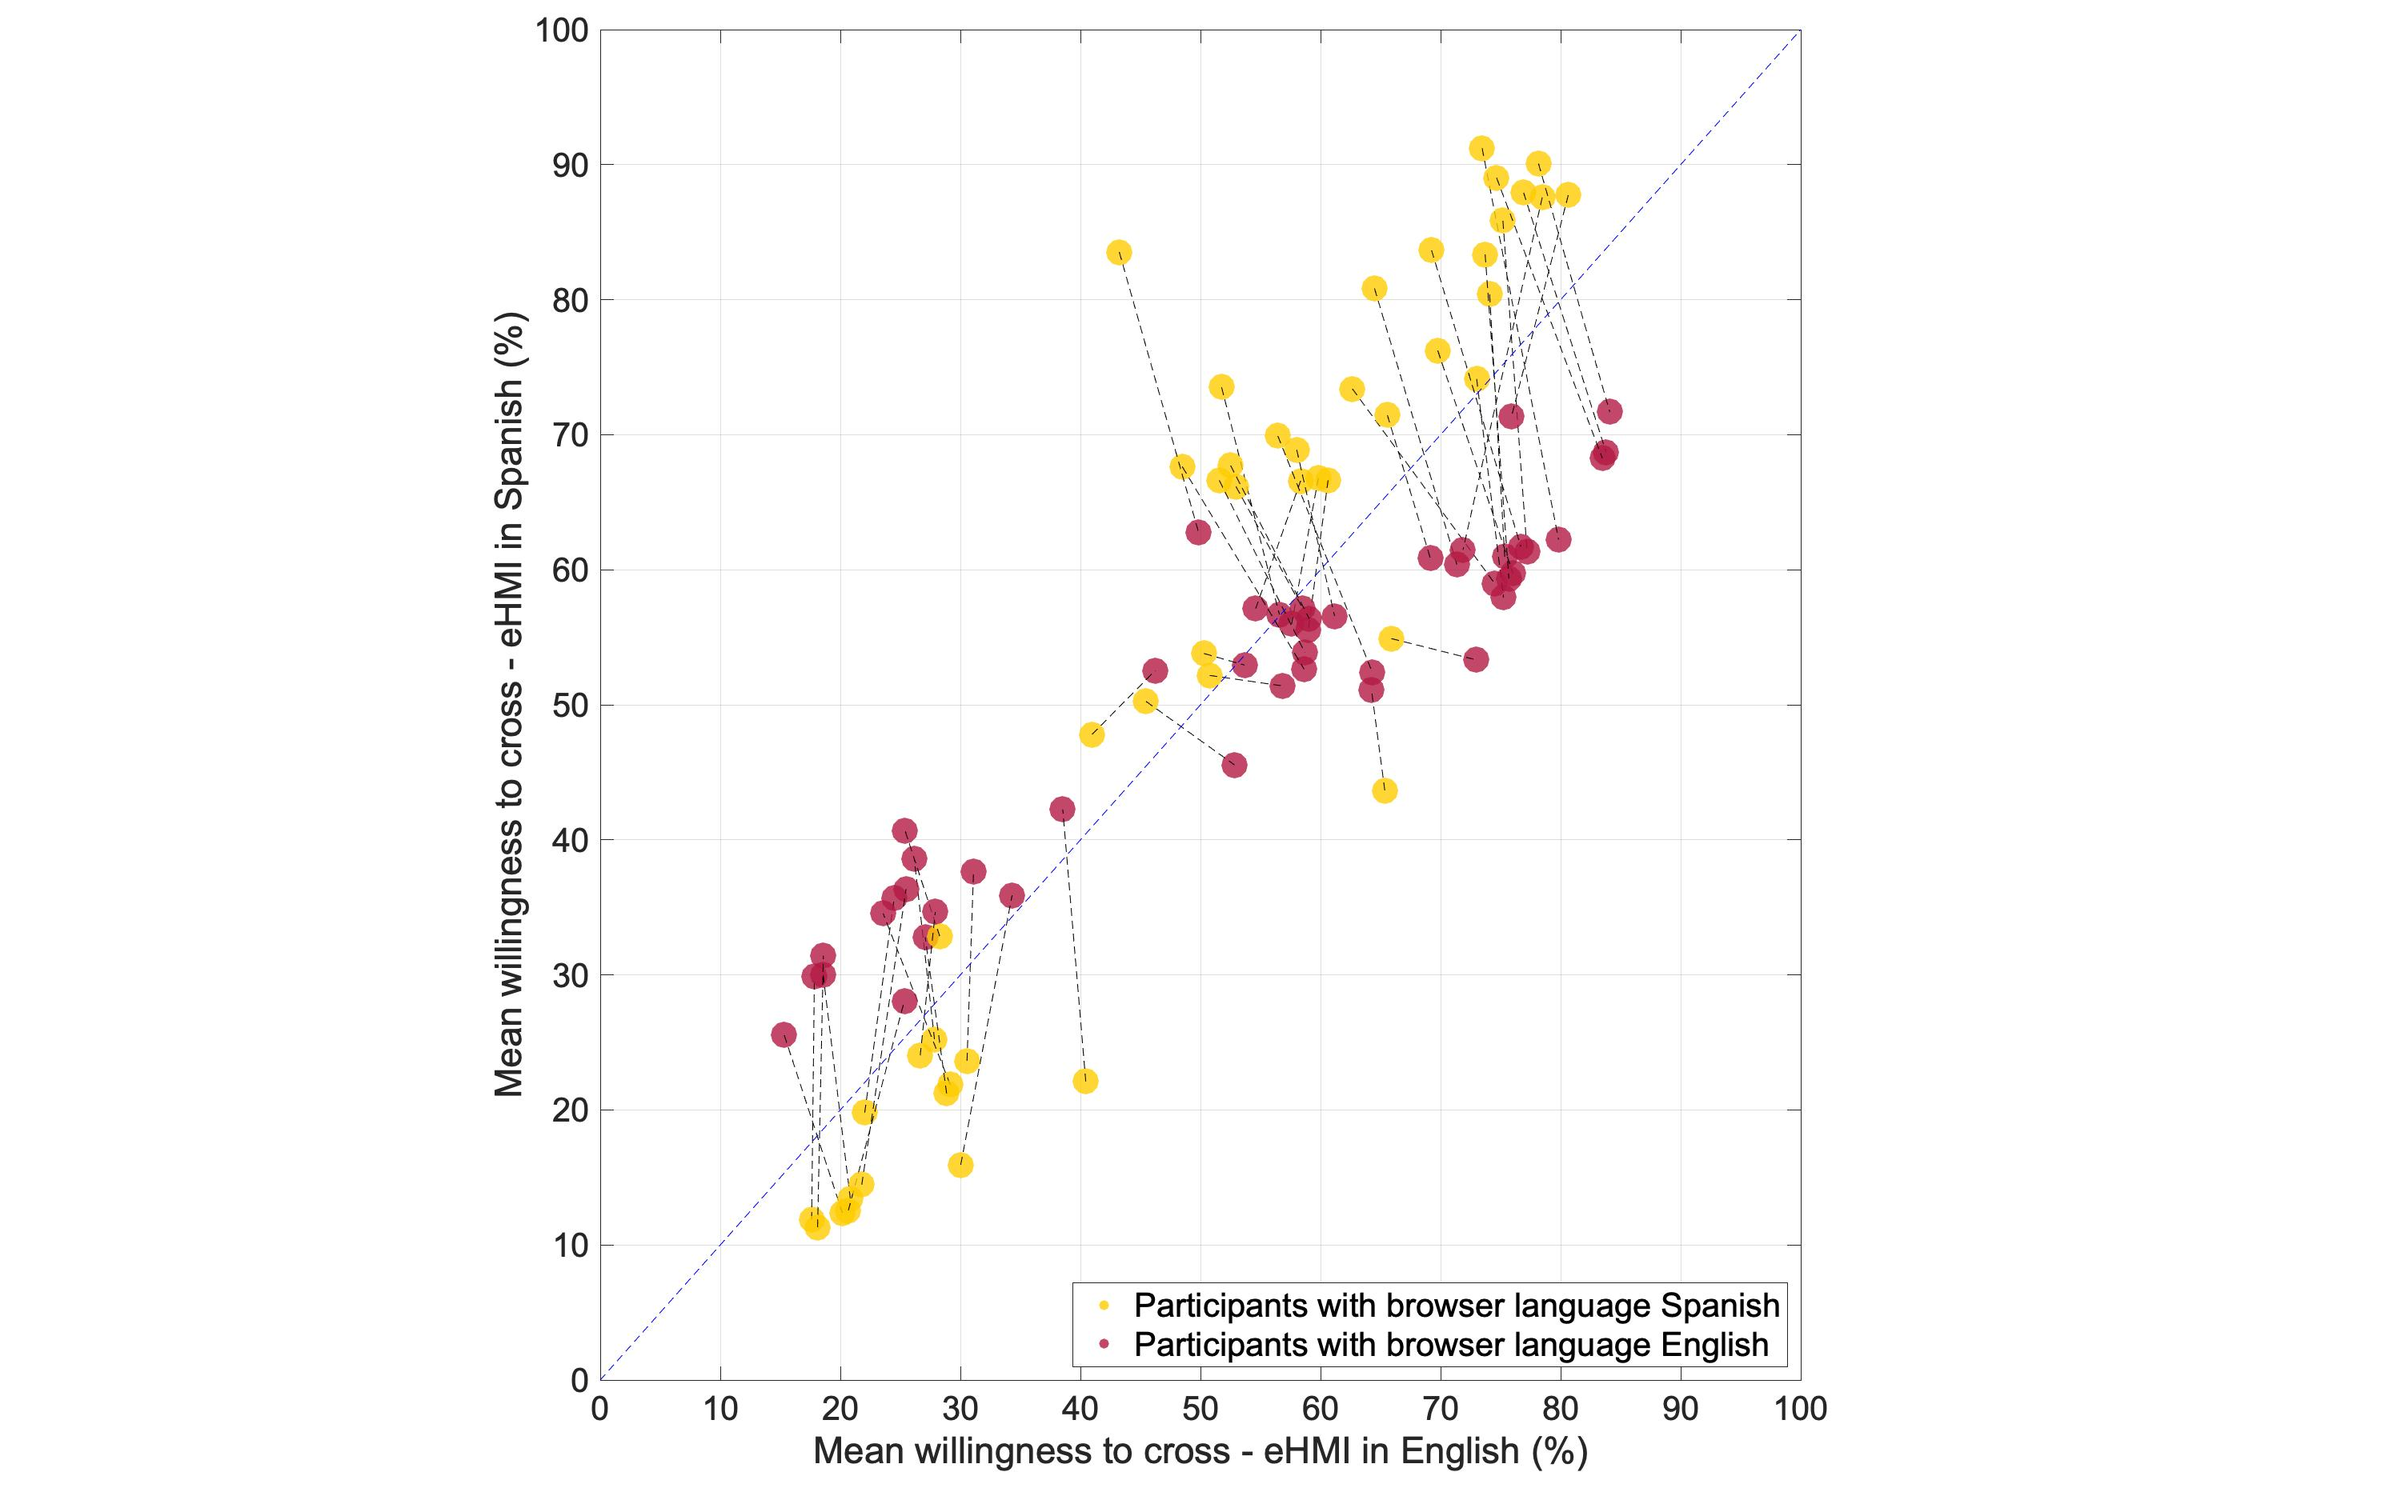
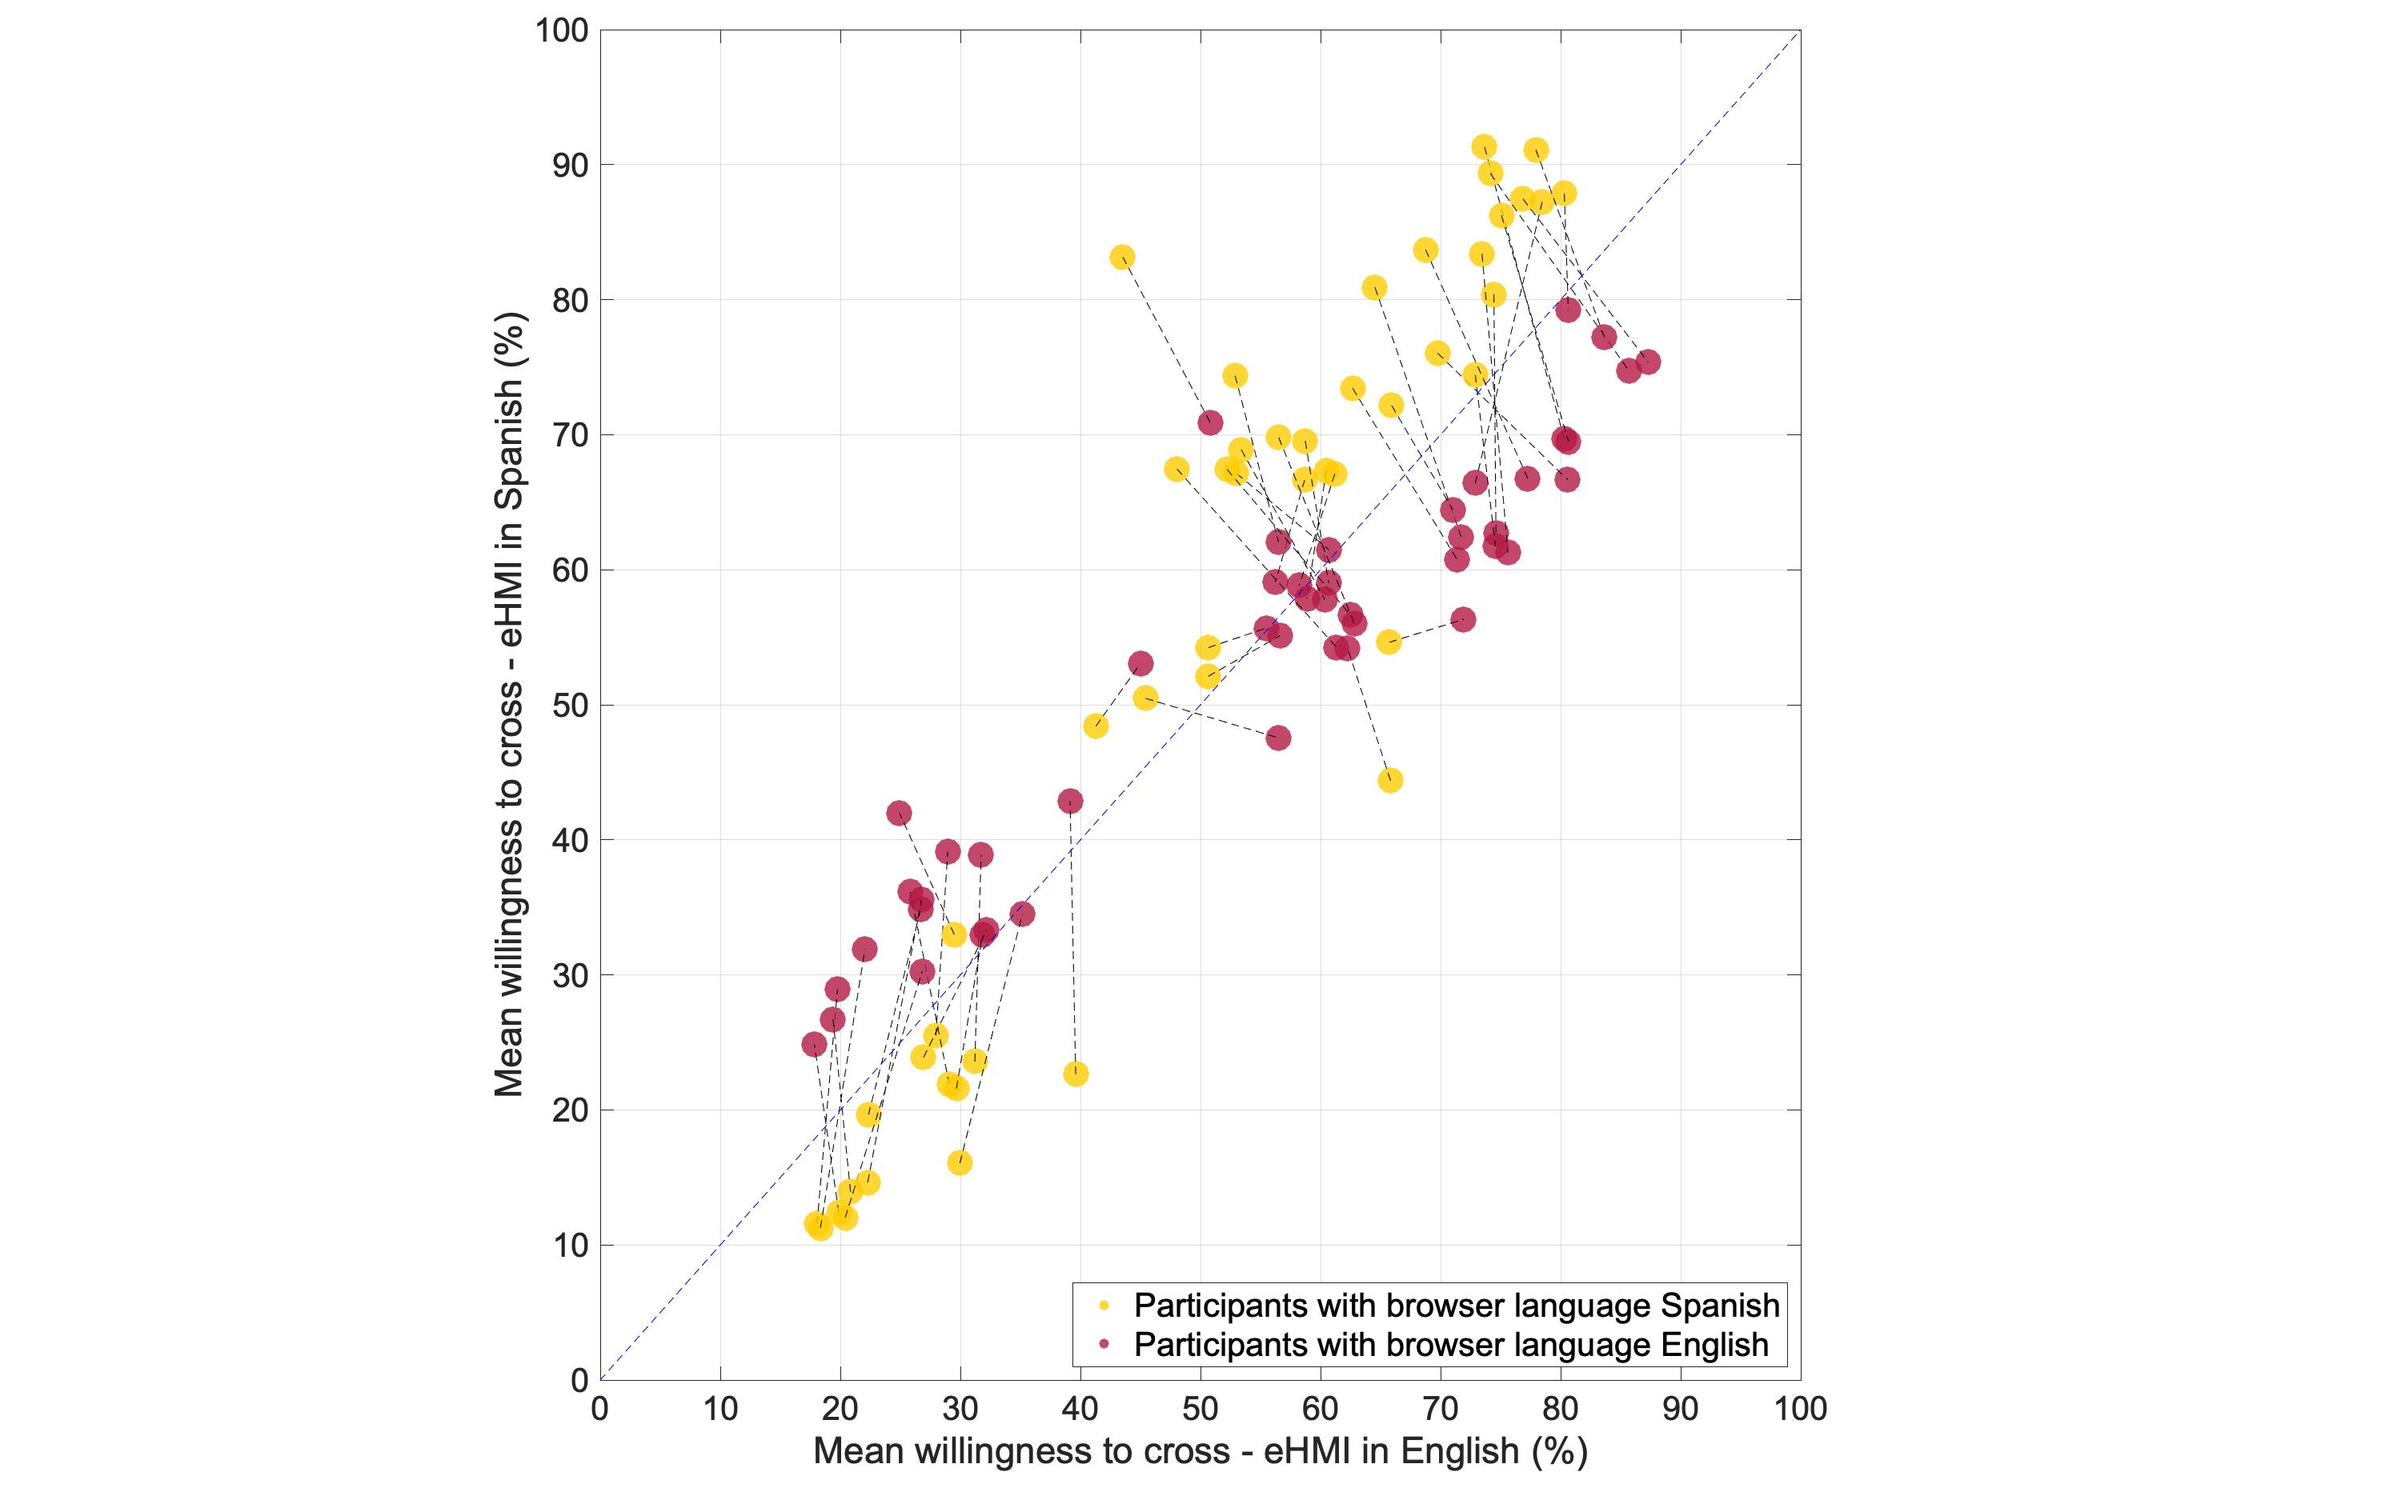
Processing language as other

diff --git a/textehmi/analysis/analysis.m b/textehmi/analysis/analysis.m
@@ -62,7 +62,7 @@ mapping = readtable(config.mapping);
 RT = X(:, 27:106);       % time used to press the key
 RP = X(:, 107:186);      % response from the slider
 imageid = X(:,187:266);  % image ids as shown
-lang_es = X(:,267);      % Browsers language (1=Spanish, 0=not Spanish)
+lang_br = X(:,267);      % Browsers language (1=Spanish, 0=not Spanish)
 eHMI_text=mapping(:,2);  % labels with eHMIs
 % Order based on image number
 [RPo,RTo]=deal(NaN(size(RP,1),N_STIMULI));
@@ -219,18 +219,18 @@ hold on;
 grid on;
 box on
 for i=1:47
-    scatter1 = scatter(nanmean(RPo(lang_es==1,Ewi(i))), ...
-                       nanmean(RPo(lang_es==1,i+180)), ...
+    scatter1 = scatter(nanmean(RPo(lang_br==1,Ewi(i))), ...
+                       nanmean(RPo(lang_br==1,i+180)), ...
                        250, ...
                        'markerfacecolor', [255, 204, 0]/255, ...
                        'markeredgecolor', 'none');
-    scatter2 = scatter(nanmean(RPo(lang_es==0,Ewi(i))), ...
-                       nanmean(RPo(lang_es==0,i+180)), ...
+    scatter2 = scatter(nanmean(RPo(lang_br==0,Ewi(i))), ...
+                       nanmean(RPo(lang_br==0,i+180)), ...
                        250, ...
                        'markerfacecolor', [179, 25, 66]/255, ...
                        'markeredgecolor', 'none');
-    plot([nanmean(RPo(lang_es==1,Ewi(i))) nanmean(RPo(lang_es==0,Ewi(i)))], ...
-         [nanmean(RPo(lang_es==1,i+180)) nanmean(RPo(lang_es==0,i+180))], ...
+    plot([nanmean(RPo(lang_br==1,Ewi(i))) nanmean(RPo(lang_br==0,Ewi(i)))], ...
+         [nanmean(RPo(lang_br==1,i+180)) nanmean(RPo(lang_br==0,i+180))], ...
          'k--')
     scatter1.MarkerFaceAlpha = 0.8;
     scatter2.MarkerFaceAlpha = 0.8;
@@ -473,8 +473,8 @@ hold on;
 grid on;
 clear h; % empty h object to store colour for the legend
 for i=1:180 % English eHMIs
-    scatter1 = scatter(nanmedian(RTo(lang_es==0, i)), ...
-                       nanmedian(RTo(lang_es==1, i)), ...
+    scatter1 = scatter(nanmedian(RTo(lang_br==0, i)), ...
+                       nanmedian(RTo(lang_br==1, i)), ...
                        mapping{i, 3} * 20, ...
                        'markerfacecolor', 'k', ...
                        'markeredgecolor', 'none');
@@ -482,8 +482,8 @@ for i=1:180 % English eHMIs
     h(1) = scatter1(1); % store 1st object for the colour in the legend
 end
 for i=181:227 % Spanish eHMIs
-    scatter2 = scatter(nanmedian(RTo(lang_es==0,i)), ...
-                       nanmedian(RTo(lang_es==1,i)), ...
+    scatter2 = scatter(nanmedian(RTo(lang_br==0,i)), ...
+                       nanmedian(RTo(lang_br==1,i)), ...
                        mapping{i,3}*20, ...
                        'markerfacecolor', 'r', ...
                        'markeredgecolor', 'none');
@@ -549,7 +549,7 @@ end
 
 %% Correlation matrix and plot
 % fetch relevant columns from X for correlation matrix 
-CMATR = [X(:,[2:4 6:17 23]) lang_es];
+CMATR = [X(:,[2:4 6:17 23]) lang_br];
 % compute correlations
 [c_CMATR, p_CMATR] = corr(CMATR, 'type', 'spearman', 'rows', 'pairwise');
 % labels for output
@@ -603,15 +603,15 @@ XCM=[2*abs(nanmean(RPo(:,1:180)-50))' nanstd(RPo(:,1:180))' nanmedian(RTo(:,1:18
 disp('Correlation matrix all participants, Enligh-text eHMIs')
 disp(round(corr(XCM),2))
 
-% XCM=[abs(50-nanmean(RPo(lang_es==1,181:end)))' ...
-%      nanmedian(RTo(lang_es==1,181:end))' ...
+% XCM=[abs(50-nanmean(RPo(lang_br==1,181:end)))' ...
+%      nanmedian(RTo(lang_br==1,181:end))' ...
 %      mapping{181:end,[3 7 8]}];
 % disp(['Correlation matrix Spanish-language participants, ' ...
 %       'Spanish eHMI texts'])
 % disp(round(corr(XCM),2))
 % 
-% XCM=[abs(50-nanmean(RPo(lang_es==0,1:180)))' ...
-%      nanmedian(RTo(lang_es==0,1:180))' ...
+% XCM=[abs(50-nanmean(RPo(lang_br==0,1:180)))' ...
+%      nanmedian(RTo(lang_br==0,1:180))' ...
 %      mapping{1:180,[3 7 8]}];
 % disp(['Correlation matrix Non-Spanish-language participants, ' ...
 %       'English eHMI texts'])
@@ -655,10 +655,10 @@ disp(t)
 disp(['Number of participants (1) US & non-es browser, ' ...
       '(2) VE & non-es browser, (3) US & es browser, ...' ...
       '(4) VE & es_browser'])
-disp([sum(contains(Country,'US') & lang_es==0) ...
-      sum(contains(Country,'VE') & lang_es==0) ...
-      sum(contains(Country,'US') & lang_es==1) ...
-      sum(contains(Country,'VE') & lang_es==1)])
+disp([sum(contains(Country,'US') & lang_br==0) ...
+      sum(contains(Country,'VE') & lang_br==0) ...
+      sum(contains(Country,'US') & lang_br==1) ...
+      sum(contains(Country,'VE') & lang_br==1)])
 
 g1=contains(Country,'VE');
 g2=contains(Country,'IN');

diff --git a/textehmi/analysis/process_experiment.m b/textehmi/analysis/process_experiment.m
@@ -90,10 +90,12 @@ function [X, Country] = process_experiment(appen_file, appen_indices, heroku_fil
         temp3=cell2mat(table2array(raw_heroku(i1,28)));
         % browser language in heroku data
         browser_fetched = temp3(regexp(temp3,'browser_lang:')+14:end-1);
-        if contains(browser_fetched, 'es')
+        if contains(browser_fetched, 'en-')
+            browser_lang = 0;
+        elseif contains(browser_fetched, 'es-')
             browser_lang = 1;
         else
-            browser_lang = 0;
+            browser_lang = 2;
         end
         extracted_row=table2array(raw_heroku(i1,29+N_STIMULI:end));
         imageid(i1,:)=[str2double(temp(12:end)) table2array(raw_heroku(i1,30:29+N_STIMULI-2)) str2num(temp2(1:regexp(temp2,']')-1))];
@@ -129,10 +131,14 @@ function [X, Country] = process_experiment(appen_file, appen_indices, heroku_fil
         end
     end
     %% Remove participants who did not meet the criteria
-    invalid1 = find(X(:,1)==1); % respondents who did not read instructions
-    invalid2 = find(X(:,3)<18);  % respondents who indicated they are under 18 years old
-    invalid3 = find(X(:,26)<300);  % respondents who took less than 5 min to complete
-    invalid5 = find(isnan(sum(X(:,107:186),2))); % respondents with no response data / match
+    % respondents who did not read instructions
+    invalid1 = find(X(:,1)==1);
+    % respondents who indicated they are under 18 years old
+    invalid2 = find(X(:,3)<18);
+    % respondents who took less than 5 min to complete
+    invalid3 = find(X(:,26)<300);
+    % respondents with no response data / match
+    invalid5 = find(isnan(sum(X(:,107:186),2)));
     %% Find rows with identical IP addresses
     y = NaN(size(X(:,1)));
     IPCF_1=NaN(size(raw_appen,1),1);
@@ -151,9 +157,12 @@ function [X, Country] = process_experiment(appen_file, appen_indices, heroku_fil
             y(temp(2:end))=2; % no not keep the other ones
         end
     end
-    invalid4=find(y>1); % respondents who completed the survey more than once (i.e., remove the doublets)
-    %% filter out data
-    invalid = unique([invalid1;invalid2;invalid3;invalid4;invalid5]); % Add together all invalid rows with data
+    % respondents who completed the survey more than once (i.e., remove the
+    % doublets)
+    invalid4=find(y>1);
+    %% Filter out data
+    % Add together all invalid rows with data
+    invalid = unique([invalid1;invalid2;invalid3;invalid4;invalid5]);
     X(invalid,:)=[]; % Remove invalid respondents
     Country(invalid)=[]; % Remove invalid countries
     raw_appen(invalid,:)=[]; % Remove invalid respondents
@@ -173,7 +182,9 @@ function [X, Country] = process_experiment(appen_file, appen_indices, heroku_fil
     disp([datestr(now, 'HH:MM:SS.FFF') ' - Age, mean = ' num2str(nanmean(X(:,3)))])
     disp([datestr(now, 'HH:MM:SS.FFF') ' - Age, sd = ' num2str(nanstd(X(:,3)))])
     %% Language
-    disp([datestr(now, 'HH:MM:SS.FFF') ' - Browser language set to Spanish = ' num2str(sum(X(:,267)))])
+    disp([datestr(now, 'HH:MM:SS.FFF') ' - Browser language set to English = '  num2str(sum(X(:,267)==0))])
+    disp([datestr(now, 'HH:MM:SS.FFF') ' - Browser language set to Spanish = '  num2str(sum(X(:,267)==1))])
+    disp([datestr(now, 'HH:MM:SS.FFF') ' - Browser language set to other language = '  num2str(sum(X(:,267)==2))])
     %% Survey time
     disp([datestr(now, 'HH:MM:SS.FFF') ' - Survey time mean (minutes) - After filtering = ' num2str(nanmean(X(:,26)/60))]);
     disp([datestr(now, 'HH:MM:SS.FFF') ' - Survey time median (minutes) - After filtering = ' num2str(nanmedian(X(:,26)/60))]);

diff --git a/README.md b/README.md
@@ -57,7 +57,7 @@ Mean willingness to cross. Colours show stimuli that were presented in both Engl
 Standard deviation of willingness to cross. Colours show stimuli that were presented in both English and Spanish.
 
 ![mean willingness to sd willingness to cross](https://github.com/bazilinskyy/text-crowdsourced/blob/main/figures/scatter-text-en-mean.jpg?raw=true)
-Mean willingness to cross over SD of willingness to cross of eHMIs in English. Colours denote the type of eHMIs: green=egocentric, black=allocentric, red=egocentric and allocentric.
+eHMIs with a compellingness score smaller than 5%. Colours denote the type of eHMIs: green=egocentric, black=allocentric, red=egocentric and allocentric.
 
 ![response willingness to cross for usa and ven](https://github.com/bazilinskyy/text-crowdsourced/blob/main/figures/response-time-usa-ven.jpg?raw=true)
 Median response time for participants from USA and Venezuela.
